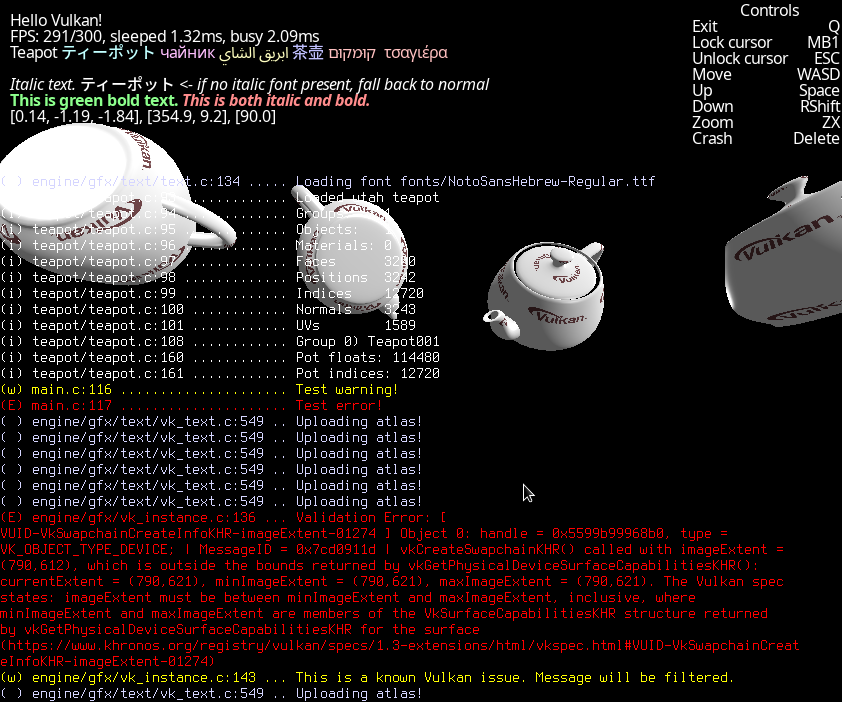
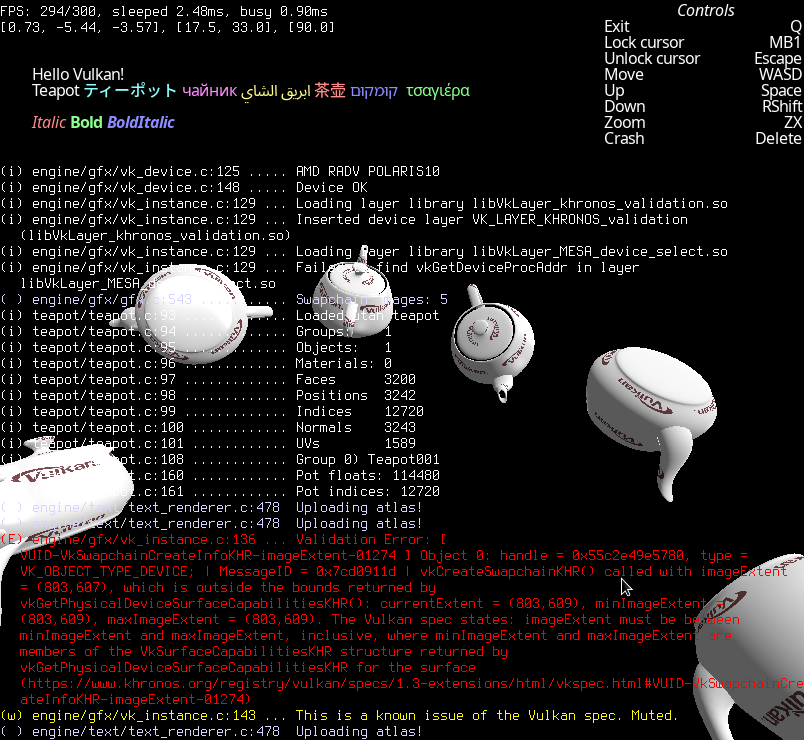
Handle allocator

diff --git a/src/engine/handle/handle.c b/src/engine/handle/handle.c
@@ -1,0 +1,70 @@
+#include "handle/handle.h"
+
+static uint32_t type_counter = 1;
+
+void handle_allocator_create(struct HandleAllocator *this)
+{
+	size_t head_size   = sizeof(uint32_t) * this->item_max;
+	size_t buffer_size = this->item_size  * this->item_max;
+
+	this->handle = calloc( head_size + buffer_size, 1 );
+	this->buffer = ((uint8_t*)this->handle)+head_size;
+
+	if (!this->type_hash)
+		this->type_hash = type_counter++;
+}
+
+Handle handle_allocate(struct HandleAllocator *restrict this)
+{
+	if (this->buffer == NULL) 
+		handle_allocator_create(this);
+	
+	for (uint32_t i = 0; i < this->item_max; i++) {
+		if (this->handle[i]) 
+			continue;
+		
+		this->handle[i]  = i+1;
+		this->handle[i] |= this->item_hash << 16;
+		this->handle[i] |= this->type_hash << 24;
+
+		this->item_hash++;
+
+		return this->handle[i];
+	}
+	
+	engine_crash("Out of items");
+	return 0;
+}
+
+static inline uint32_t handle_index(
+	struct HandleAllocator *restrict this, 
+	Handle handle)
+{
+	uint32_t index = (handle & 0xFFFF) - 1;
+	uint32_t type  = (handle >> 24);
+
+	if (handle == 0)
+		engine_crash("NULL handle");
+
+	if (this->handle[index] != handle) {
+		if (type != this->type_hash)
+			engine_crash("Wrong handle type");
+		engine_crash("Stale handle");
+	}
+
+	return index;
+}
+
+void handle_free(struct HandleAllocator *restrict this, Handle *handle)
+{
+	uint32_t index = handle_index(this, *handle);
+	this->handle[index] = 0;
+	*handle = 0;
+}
+
+void *handle_dereference(struct HandleAllocator *this, Handle handle)
+{
+	uint32_t index = handle_index(this, handle);
+	return this->buffer + index * this->item_size;
+}
+

diff --git a/src/engine/text/text_engine.c b/src/engine/text/text_engine.c
@@ -4,6 +4,7 @@
 #include "engine.h"
 #include "log/log.h"
 #include "ppm.h"
+#include "handle/handle.h"
 
 #include <errno.h>
 #include <iconv.h>
@@ -16,26 +17,11 @@
 
 static FT_Library ft;
 
-static struct TextEngine text_engines[1];
+static struct HandleAllocator alloc = HANDLE_ALLOCATOR(struct TextEngine, 1);
 
 struct TextEngine *text_engine_get_struct(TextEngine handle)
 {
-	struct TextEngine *this = &text_engines[handle-1];
-	if (!this->valid) 
-		engine_crash("Invalid TextEngine handle");
-	return this;
-}
-
-TextEngine text_engine_alloc(void)
-{
-	for (ufast32_t i = 0; i < LENGTH(text_engines); i++) {
-		if (!text_engines[i].valid) {
-			text_engines[i].valid = true;
-			return i+1;
-		}
-	}
-	engine_crash("Too many TextEngines");
-	return 0; 
+	return handle_dereference(&alloc, handle);
 }
 
 void add_font(
@@ -126,7 +112,8 @@ void create_bin(
 
 TextEngine text_engine_create(void)
 {
-	TextEngine handle = text_engine_alloc();
+	TextEngine handle = handle_allocate(&alloc);
+
 	struct TextEngine *restrict this = text_engine_get_struct(handle);
 
 	uint32_t ret; 
@@ -235,7 +222,7 @@ struct GlyphSlot *text_engine_cache_glyph(
 	uint32_t font_id,
 	uint32_t code)
 {
-	struct TextEngine *restrict this = text_engine_get_struct(handle);
+	struct TextEngine *restrict this = handle_dereference(&alloc, handle);
 
 	struct Atlas    *atlas = &this->atlas;
 	struct AtlasBin *bin;

diff --git a/src/engine/text/text_geometry.c b/src/engine/text/text_geometry.c
@@ -4,31 +4,19 @@
 #include "text/text_engine.h"
 #include "common.h"
 #include "event/event.h"
+#include "handle/handle.h"
 
 #include "gfx/gfx.h"
 #include "gfx/vk_util.h"
 
 extern struct VkEngine vk;
 
-static struct TextGeometry text_geoms[8];
+
+static struct HandleAllocator alloc = HANDLE_ALLOCATOR(struct TextGeometry, 8);
+
 struct TextGeometry *text_geometry_get_struct(TextGeometry handle)
 {
-	if (handle == 0) engine_crash("NULL handle");
-	struct TextGeometry *this = &text_geoms[handle-1];
-	if (!this->valid) 
-		engine_crash("Invalid handle");
-	return this;
-}
-TextGeometry text_geometry_alloc(void)
-{
-	for (ufast32_t i = 0; i < LENGTH(text_geoms); i++) {
-		if (!text_geoms[i].valid) {
-			text_geoms[i].valid = true;
-			return i+1;
-		}
-	}
-	engine_crash("Out of slots");
-	return 0; 
+	return handle_dereference(&alloc, handle);
 }
 
 void text_geometry_destroy_callback(TextGeometry handle, void*arg)
@@ -61,7 +49,7 @@ TextGeometry text_geometry_create(
 	size_t                max_glyphs,
 	enum TextGeometryType type)
 {
-	TextGeometry                  handle = text_geometry_alloc();
+	TextGeometry                  handle = handle_allocate(&alloc);
 	struct TextGeometry *restrict this   = text_geometry_get_struct(handle);
 	struct TextRenderer *restrict gfx    = text_renderer_get_struct(gfx_handle);
 

diff --git a/src/engine/text/text_renderer.c b/src/engine/text/text_renderer.c
@@ -9,29 +9,15 @@
 #include "common.h"
 #include "res.h"
 #include "event/event.h"
-
+#include "handle/handle.h"
 
 extern struct VkEngine vk;
 
-static struct TextRenderer text_renderers[1];
+static struct HandleAllocator alloc = HANDLE_ALLOCATOR(struct TextRenderer, 1);
+
 struct TextRenderer *text_renderer_get_struct(TextEngine handle)
 {
-	if (handle == 0) engine_crash("NULL handle");
-	struct TextRenderer *this = &text_renderers[handle-1];
-	if (!this->valid) 
-		engine_crash("Invalid handle");
-	return this;
-}
-TextRenderer text_renderer_alloc(void)
-{
-	for (ufast32_t i = 0; i < LENGTH(text_renderers); i++) {
-		if (!text_renderers[i].valid) {
-			text_renderers[i].valid = true;
-			return i+1;
-		}
-	}
-	engine_crash("Out of slots");
-	return 0; 
+	return handle_dereference(&alloc, handle);
 }
 
 
@@ -421,7 +407,7 @@ uint16_t *create_index_buffer(size_t max_glyphs, size_t *size)
 
 TextRenderer text_renderer_create(TextEngine engine_handle)
 {
-	TextRenderer                  handle = text_renderer_alloc();
+	TextRenderer                  handle = handle_allocate(&alloc);
 	struct TextRenderer *restrict this   = text_renderer_get_struct(handle);
 	this->engine = engine_handle;
 

diff --git a/src/engine/text/text_block.c b/src/engine/text/text_block.c
@@ -2,31 +2,17 @@
 
 #include "common.h"
 #include "ppm.h"
+#include "handle/handle.h"
 
 #include <errno.h>
 #include <iconv.h>
 #include <fribidi.h>
 
-static struct TextBlock text_blocks[1024];
+static struct HandleAllocator alloc = HANDLE_ALLOCATOR(struct TextBlock, 1024);
 
 struct TextBlock *text_block_get_struct(TextEngine handle)
 {
-	struct TextBlock *this = &text_blocks[handle-1];
-	if (!this->valid) 
-		engine_crash("Invalid TextEngine handle");
-	return this;
-}
-
-TextBlock text_block_alloc(void)
-{
-	for (ufast32_t i = 0; i < LENGTH(text_blocks); i++) {
-		if (!text_blocks[i].valid) {
-			text_blocks[i].valid = true;
-			return i+1;
-		}
-	}
-	engine_crash("Out of slots");
-	return 0; 
+	return handle_dereference(&alloc, handle);
 }
 
 Array(utf32_t) text_bidi( Array(utf32_t) input ) 
@@ -446,7 +432,7 @@ void text_block_set(
 
 TextBlock text_block_create(TextEngine engine_handle)
 {
-	TextBlock handle = text_block_alloc();
+	TextBlock handle = handle_allocate(&alloc);
 	struct TextBlock  *restrict this   = text_block_get_struct(handle);
 	struct TextEngine *restrict engine = text_engine_get_struct(engine_handle);
 	

diff --git a/src/main.c b/src/main.c
@@ -47,7 +47,6 @@ int main(int argc, char**argv)
 
 	term_create_gfx(txt.gfx);
 
-
 	struct TextStyle s;
 	text_block_add(txt.block, "Hello Vulkan!\n", NULL);
 	text_block_add(txt.block, "Teapot ",       textstyle_set(&s, 0xFFFFFFFF, 0));
@@ -59,14 +58,14 @@ int main(int argc, char**argv)
 	text_block_add(txt.block, "τσαγιέρα ",     textstyle_set(&s, 0x44FF44FF, 0));
 	text_block_add(txt.block, "\n\n", NULL);
 
-	text_block_add(txt.block, "Italic ",     
-		textstyle_set(&s, 0xFF4444FF, FONT_STYLE_ITALIC));
+	textstyle_set(&s, 0xFF4444FF, FONT_STYLE_ITALIC);
+	text_block_add(txt.block, "Italic ", &s);
 
-	text_block_add(txt.block, "Bold ",     
-		textstyle_set(&s, 0x44FF44FF, FONT_STYLE_BOLD));
+	textstyle_set(&s, 0x44FF44FF, FONT_STYLE_BOLD);
+	text_block_add(txt.block, "Bold ", &s); 
 
-	text_block_add(txt.block, "BoldItalic",     
-		textstyle_set(&s, 0x4444FFFF, FONT_STYLE_ITALIC|FONT_STYLE_BOLD));
+	textstyle_set(&s, 0x4444FFFF, FONT_STYLE_ITALIC|FONT_STYLE_BOLD);
+	text_block_add(txt.block, "BoldItalic", &s);
 
 	text_geometry_set_cursor(txt.geom_static, 32, 64);
 	text_geometry_push(txt.geom_static, txt.block);

diff --git a/src/engine/handle/handle.h b/src/engine/handle/handle.h
@@ -1,0 +1,32 @@
+#pragma once 
+#include "common.h"
+
+/* 
+ * Any sufficiently complicated C or Fortran program contains an ad hoc, 
+ * informally-specified, bug-ridden, slow implementation of an slab allocator.
+ */
+
+/*
+ * Handles only support 65535 objects as half of the bits of the 32bit handles
+ * are used for runtime checks.
+ */
+
+#define HANDLE_ALLOCATOR(T, num) { .item_size = sizeof(T), .item_max = num}
+
+struct HandleAllocator {
+	uint32_t item_size;
+	uint32_t item_max;
+	uint32_t item_count;
+
+	uint8_t  item_hash;
+	uint8_t  type_hash;
+
+	Handle   *handle;
+	uint8_t  *buffer;
+};
+
+
+Handle handle_allocate   (struct HandleAllocator *);
+void   handle_free       (struct HandleAllocator *, Handle *);
+void  *handle_dereference(struct HandleAllocator *, Handle handle);
+

diff --git a/src/engine/gfx/vk_instance.c b/src/engine/gfx/vk_instance.c
@@ -104,7 +104,9 @@ static VKAPI_ATTR VkBool32 VKAPI_CALL vk_debug_callback(
 	} filter[] = {
 		{
 			.message_id = 0x7cd0911d,
-			.warn       = "This is a known issue of the Vulkan spec. Muted.",
+			.warn       = 
+				"Known Vulkan issue. "
+				"This message will be filtered.",
 			.pass       = 1,
 		}
 	};

diff --git a/README.md b/README.md
@@ -49,6 +49,12 @@ use. Apart from a simple demo, no actual game will be implemented here.
 - TODO: Vertical text
 - TODO: Cursor
 
+This is still a special-purpose text renderer, with certain limitations.
+Caching system has to be manually tuned for usage patterns, fonts and font 
+sizes. At runtime you need to choose from a limited set of font configurations.
+It's also only good for 2D use, as SDF isn't suitable for runtime glyph 
+generation. Only monochrome glyphs are supported as well.
+
 ### To fix (besides the obvious)
 - Handle minUniformBufferOffsetAlignment properly
 	- Temp. patched with \_\_attribute\_\_ aligned 256
@@ -57,12 +63,8 @@ use. Apart from a simple demo, no actual game will be implemented here.
 	- Stop recreating the staging buffer
 - Make sure atlas upload is synced properly 
 	- Pipeline barriers?
-
-This is still a special-purpose text renderer, with certain limitations.
-Caching system has to be manually tuned for usage patterns, fonts and font 
-sizes. At runtime you need to choose from a limited set of font configurations.
-It's also only good for 2D use, as SDF isn't suitable for runtime glyph 
-generation. Only monochrome glyphs are supported as well.
+- Mechanism to safely destroy vulkan objects during runtime
+- Improve handles
 
 ## Building
 ### Linux 
